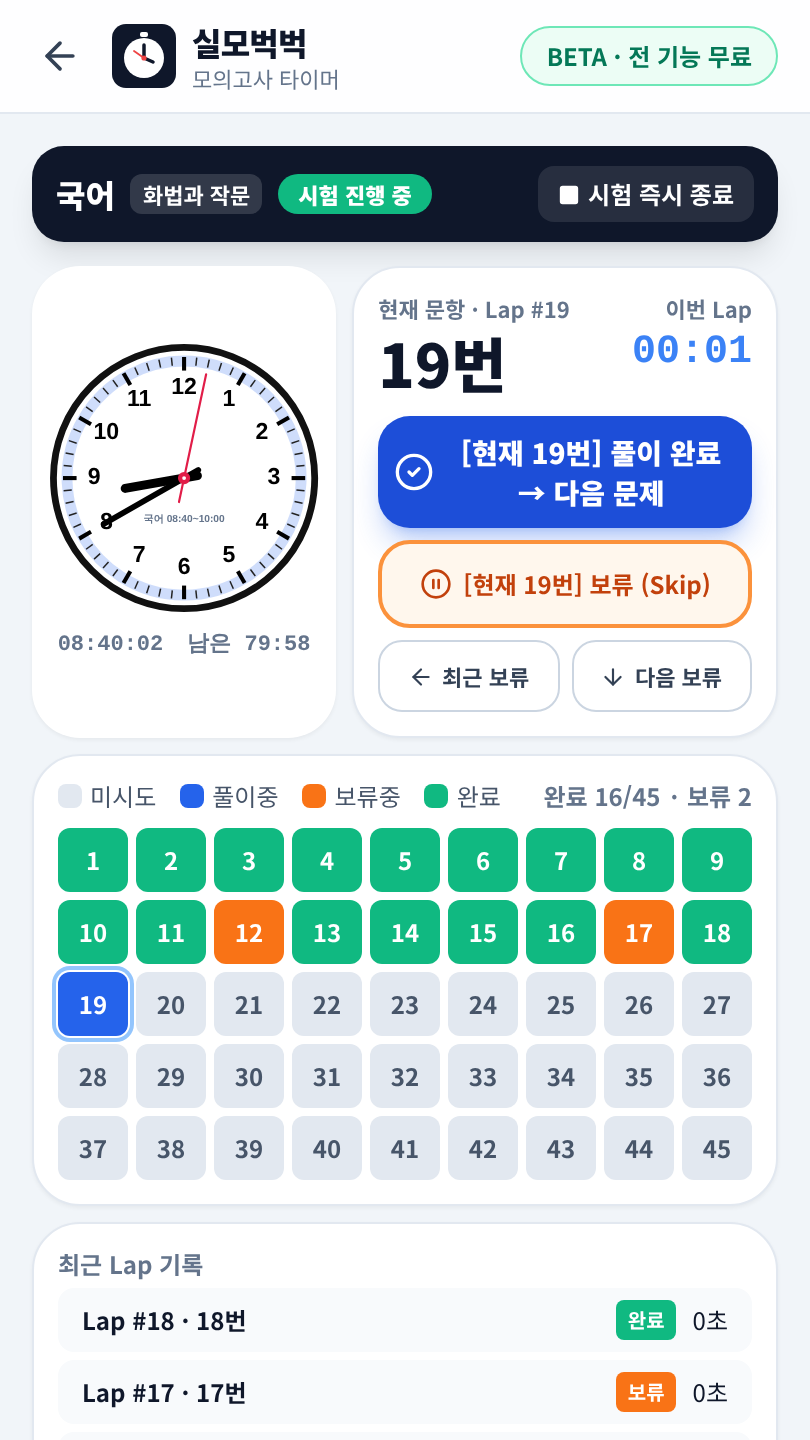
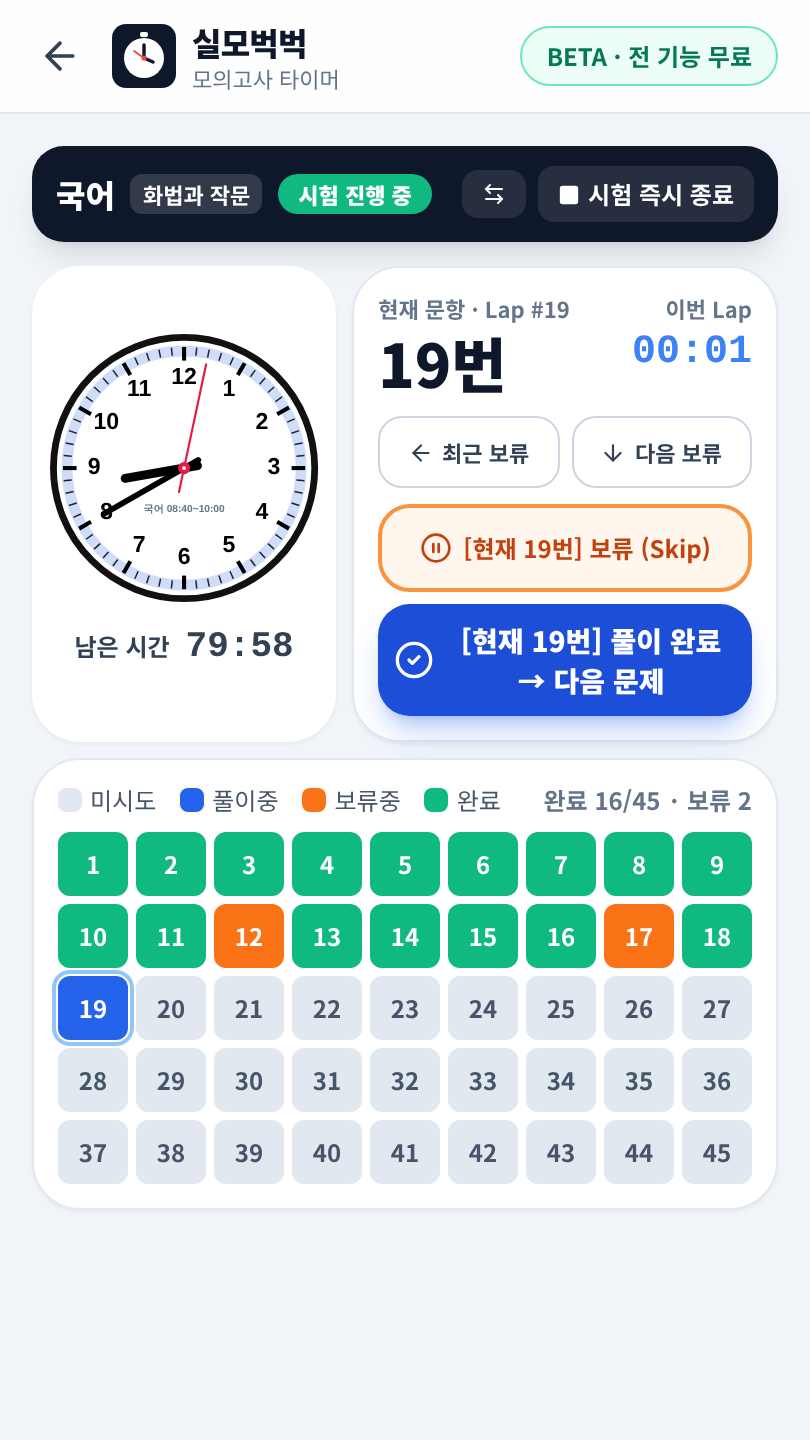
스토어 스크린샷 갱신, 낮은 가로 화면에서 문항 그리드 축소
Claude-Session: https://claude.ai/code/session_01JaJptbPHiKNLCMqtjtXL5h

diff --git a/src/components/QuestionGrid.tsx b/src/components/QuestionGrid.tsx
@@ -49,7 +49,7 @@ export function QuestionGrid({
             type="button"
             disabled={disabled}
             onClick={() => onSelect(q)}
-            className={cx('h-8 rounded-md text-xs sm:h-9 md:h-11 md:text-sm font-bold tabular-nums transition disabled:cursor-not-allowed disabled:opacity-50', STATUS_CLS[st])}
+            className={cx('h-8 rounded-md text-xs sm:h-9 md:h-11 md:text-sm [@media(min-width:1024px)_and_(max-height:760px)]:h-9 font-bold tabular-nums transition disabled:cursor-not-allowed disabled:opacity-50', STATUS_CLS[st])}
             aria-label={`${q}번 문항 (${STATUS_LABEL[st]})`}
           >
             {q}
